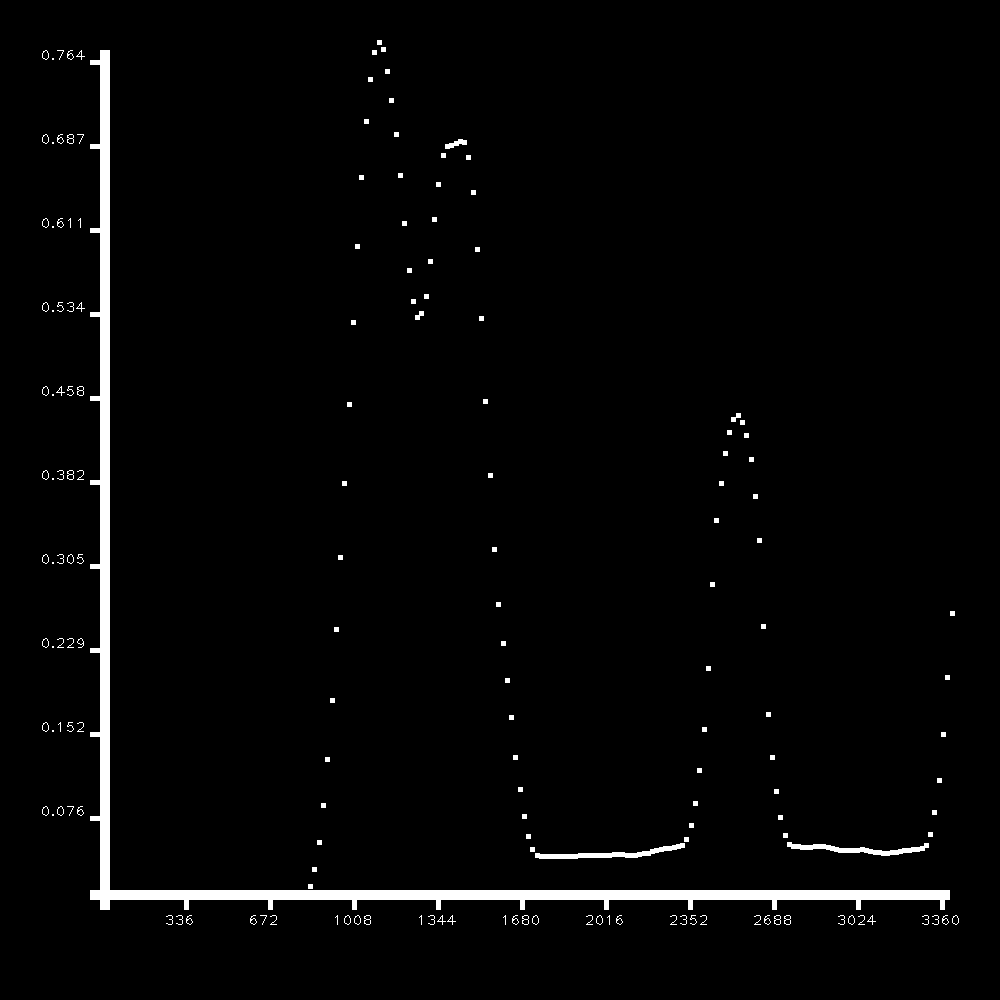
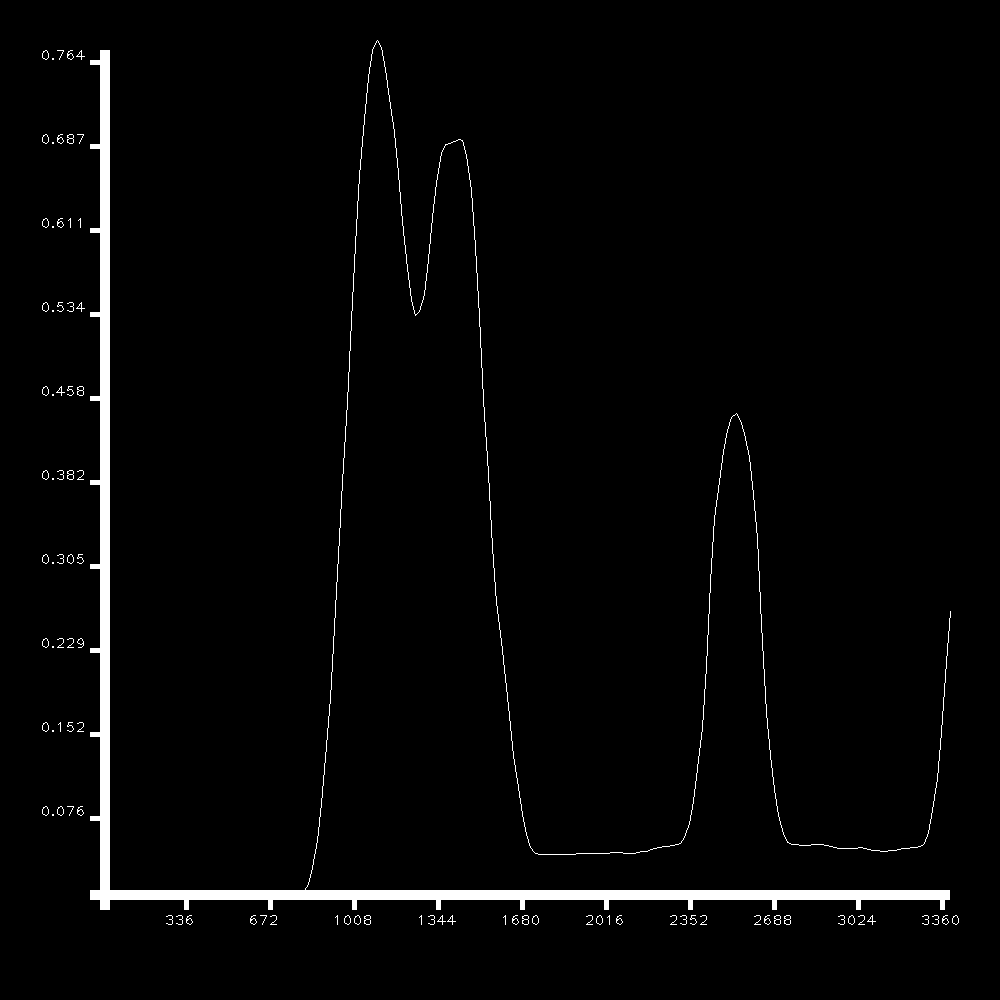
make the line for the graph

diff --git a/Reach_Data/Reach_Data.cpp b/Reach_Data/Reach_Data.cpp
@@ -338,14 +338,6 @@ int main(int argc, char* argv[]) {
 				showcase_image.at<cv::Vec3b>(x, y)[2] = danger_image.at<uchar>(x, y); 
 			}
 		cv::imwrite(base_path + "\\showcase.png", showcase_image);
-
-		std::ofstream result_file(base_path + "\\results.txt", std::ios::trunc);
-		result_file << "Filled Area Metric:	       " << metric_area_filled(reach_image, danger_image,0, reach_image.cols) << '\n';
-		result_file << "Gradient Area Metric:      " << metric_area_gradient(reach_image, platform_pixels.size(), danger_image, 0, reach_image.cols) << '\n';
-		result_file << "Filled Perimeter Metric:   " << metric_perimeter_filled(reach_image, danger_image, 0, reach_image.cols) << '\n';
-		result_file << "Gradient Perimeter Metric: " << metric_perimeter_gradient(reach_image, platform_pixels.size(), danger_image, 0, reach_image.cols) << '\n';
-		result_file << "Execution time:  " << clock() - start_time;
-		result_file.close();
 		
 		{
 			cv::Mat split_image(dim_image.first + 200, dim_image.second, CV_8UC3);
@@ -407,7 +399,13 @@ int main(int argc, char* argv[]) {
 			create_graph(points_perimeter_filed, metric_folder + "\\graph_filled_perimeter.png");
 			create_graph(points_perimeter_gradient, metric_folder + "\\graph_gradient_perimeter.png");
 		}
-		
+		std::ofstream result_file(base_path + "\\results.txt", std::ios::trunc);
+		result_file << "Filled Area Metric:	       " << metric_area_filled(reach_image, danger_image,0, reach_image.cols) << '\n';
+		result_file << "Gradient Area Metric:      " << metric_area_gradient(reach_image, platform_pixels.size(), danger_image, 0, reach_image.cols) << '\n';
+		result_file << "Filled Perimeter Metric:   " << metric_perimeter_filled(reach_image, danger_image, 0, reach_image.cols) << '\n';
+		result_file << "Gradient Perimeter Metric: " << metric_perimeter_gradient(reach_image, platform_pixels.size(), danger_image, 0, reach_image.cols) << '\n';
+		result_file << "Execution time:  " << clock() - start_time;
+		result_file.close();
 	}
 
 	return 0;

diff --git a/Reach_Data/graph.h b/Reach_Data/graph.h
@@ -51,13 +51,18 @@ void inline create_graph(const points_array& points, std::string const path_to_s
         cv::rectangle(graph_image, rect_vertical, cv::Scalar(255), cv::FILLED);
         cv::putText(graph_image, truncate_float(write_step*i, 4), cv::Point(40, 900 - i*step), cv::FONT_HERSHEY_PLAIN, 1, cv::Scalar(255), 1.5);
     }
-    
-    for (point const elt : points)
+    point point_avant = points.at(0);
+    for (points_array::size_type i = 1; i < points.size(); i++)
     {
-        float step_x = value_per_pixel_x * elt.second;
-        float step_y = value_per_pixel_y * elt.first;
-        cv::Rect rect(50 + step_y, 890 - step_x , 5, 5);
-        cv::rectangle(graph_image, rect, cv::Scalar(255), cv::FILLED);
+        point point_apres = points.at(i);
+        float step_x_avant = value_per_pixel_x * point_avant.second;
+        float step_y_avant = value_per_pixel_y * point_avant.first;
+        float step_x_apres = value_per_pixel_x * point_apres.second;
+        float step_y_apres = value_per_pixel_y * point_apres.first;
+        cv::Point avant(50 + step_y_avant, 890 - step_x_avant);
+        cv::Point apres(50 + step_y_apres, 890 - step_x_apres);
+        cv::line(graph_image, avant, apres, cv::Scalar(255));
+        point_avant = point_apres;
     }
     cv::imwrite(path_to_save, graph_image);
 
